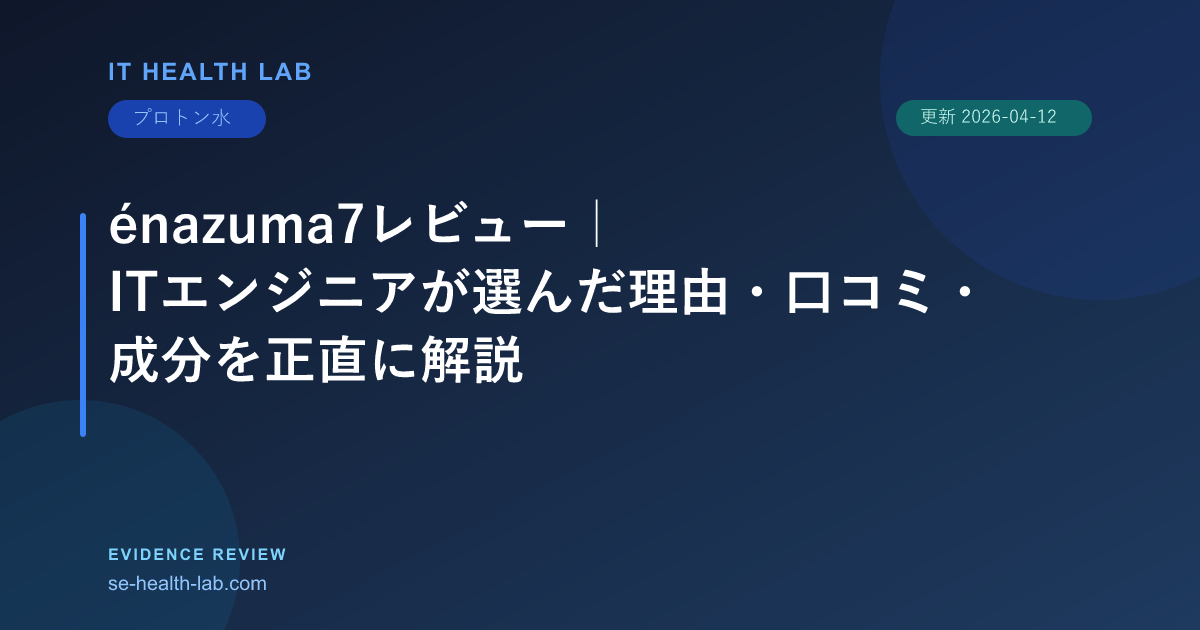
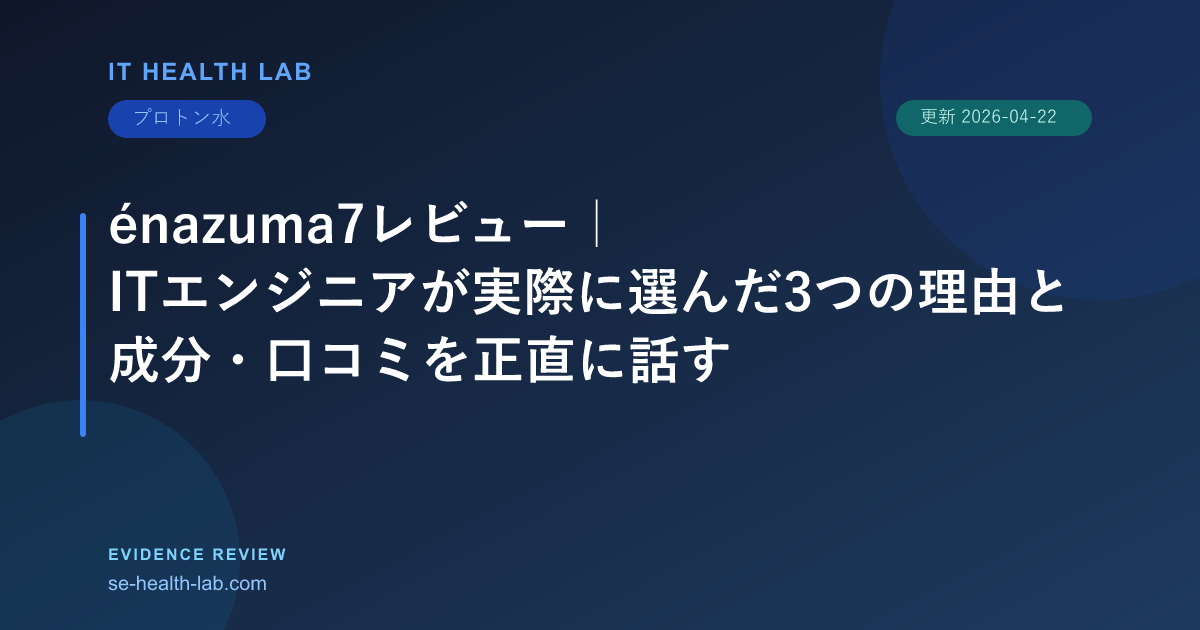
modified:   content/posts/enazuma7-review.md

Changed region(s): [[0.185, 0.4222, 0.8942, 0.6032]]

diff --git a/content/posts/mulberry-leaf-extract-analysis.md b/content/posts/mulberry-leaf-extract-analysis.md
@@ -1,6 +1,6 @@
 ---
-title: "桑の葉エキスのDNJとは？ 成分・仕組み・選び方をデータで解説"
-description: "桑の葉エキスの注目成分DNJ（デオキシノジリマイシン）の仕組み、食後血糖値との関係、プロトン水30時間熱水抽出という製法の特徴を整理します。"
+title: "桑の葉エキスのDNJとは？成分・仕組み・選び方をデータで整理"
+description: "桑の葉エキスの注目成分DNJ（デオキシノジリマイシン）の仕組みと食後血糖値との関係を整理。30時間熱水抽出という製法の特徴まで、データで選び方がわかります。"
 date: "2026-04-07"
 category: "サプリメント"
 slug: "mulberry-leaf-extract-analysis"
@@ -37,7 +37,7 @@ references:
 
 検索ユーザーが知りたいのは、「DNJとは何か」「どんな仕組みで注目されているのか」「製品ごとの差は何か」だと思います。そこで本記事では、まずDNJの働きの前提を整理し、そのうえで製品スペックと製法を見ます。
 
-ITエンジニアの食生活は糖質に偏りやすく、食後の眠気や集中力低下をパフォーマンス課題として感じやすい。そうした文脈で「食後血糖値の上昇を穏やかにする」方向の素材を調べる中で、桑の葉エキスのDNJという成分に行き当たりました。
+ITエンジニアの食生活は糖質に偏りやすく、食後の眠気や集中力低下をパフォーマンス課題として感じやすい。そうした文脈で「食後の血糖値変動」に関連する研究が進む素材を調べる中で、桑の葉エキスのDNJという成分に行き当たりました。
 
 ---
 
@@ -128,18 +128,18 @@ DNJ（1-デオキシノジリマイシン）は、桑の葉に特徴的に含ま
 | 不規則な食事時間 | 障害対応で食事スキップ → ドカ食い |
 | ストレスによる過食 | デプロイ後のジャンクフード |
 
-これらの要因が重なると、食後血糖値の急激な上昇（スパイク）が発生しやすくなります。その後の急降下が午後の眠気・集中力低下を引き起こすメカニズムは、多くの研究で示されています。
+これらの要因が重なると、食後の血糖値変動が気になりやすくなります。その後の変動と午後の眠気・集中力低下との関連については、複数の研究で議論されています（個人差があります）。
 
 ### 摂取タイミングの提案
 
-DNJのα-グルコシダーゼ阻害作用を活かすなら、**食前の摂取**がポイントです。
+DNJのα-グルコシダーゼ阻害の仕組みを踏まえると、**食事とのタイミングを意識する人が多い**です。一般的な摂取例として以下のようなパターンが見られます。
 
-| タイミング | 粒数 | 理由 |
+| タイミング例 | 粒数 | 考え方 |
 |---|---|---|
-| 昼食前 | 3粒 | 糖質の多い昼食前が最重要 |
-| 夕食前 | 3粒 | 夜の糖質吸収を穏やかに |
+| 昼食前 | 3粒 | 糖質の多い食事前に合わせる人が多い |
+| 夕食前 | 3粒 | 夕食の糖質摂取と組み合わせて確認したい |
 
-食前に摂取することで、小腸でのα-グルコシダーゼ阻害が食事由来の糖質に先回りできます。食後では酵素がすでに働き始めているため、タイミングが重要です。
+※具体的な摂取方法・タイミングは製品の用法・用量に従ってください。
 
 ---
 
@@ -161,11 +161,19 @@ DNJのα-グルコシダーゼ阻害作用を活かすなら、**食前の摂取
 | DNJの科学的根拠 | ○ α-グルコシダーゼ阻害は基礎研究での報告が複数あり |
 | 製法の独自性 | ◎ プロトン水30時間熱水抽出 |
 | 赤松葉エキスとの相乗設計 | ○ 複合的なアプローチ |
-| コストパフォーマンス | ○ 1日約¥433（健康投資として妥当な範囲） |
+| コストパフォーマンス | ○ 1日約¥433（継続コストとして確認したい価格帯） |
 
 食後の眠気やパフォーマンス低下に心当たりがあるなら、まずは自分の食生活をコードレビューしてみること。その上で、糖質コントロールの選択肢の一つとして桑の葉エキスを調べてみるのも良いかもしれません。ただし、本製品は特定保健用食品・機能性表示食品ではなく、効果を保証するものではありません。
 
-**食後の集中力低下が気になるITエンジニアへ。桑の葉エキスを検討するなら、DNJ含有・プロトン水30時間抽出・1日約¥433という条件が揃ったこの製品を最初の比較対象にしてください。** 成分設計のデータが出揃っているため、他製品と並べて検討しやすいです。
+**食後の血糖値変動が気になるITエンジニアへ。桑の葉エキスを検討するなら、DNJ含有・プロトン水30時間抽出・1日約¥433という特徴が公開されているこの製品を比較対象の一つにしてください。** 成分設計のデータが確認できるため、他製品と並べて検討しやすいです。
+
+<div class="related-posts">
+<p><strong>関連記事</strong></p>
+<ul>
+<li><a href="/posts/pine-needle-extract-analysis">松葉エキスとは？カプセルと原液の違い・成分・選び方をデータで整理</a></li>
+<li><a href="/posts/proton-x-enzyme-analysis">プロトンXとは？腸活サプリとしての成分・価格・特徴を整理</a></li>
+</ul>
+</div>
 
 <div class="cta-box">
 <p>桑の葉エキスのDNJ成分に興味が出た方は、公式サイトで製品の詳細をご確認ください。プロトン水30時間熱水抽出の独自製法で作られています。</p>

diff --git a/content/posts/proton-x-enzyme-analysis.md b/content/posts/proton-x-enzyme-analysis.md
@@ -1,6 +1,6 @@
 ---
-title: "プロトンXとは？ 成分・価格・腸活サプリとしての特徴を解説"
-description: "プロトンX（カプセル酵素）の主成分である発酵食物繊維、1日3粒の摂取設計、価格、腸内環境へのアプローチをデータベース的に整理します。"
+title: "プロトンXとは？腸活サプリとしての成分・価格・特徴を整理"
+description: "プロトンX（カプセル酵素）の主成分発酵食物繊維・1日3粒の摂取設計・価格・腸内環境へのアプローチをデータで整理。腸活サプリを選ぶ前に確認すべき項目がわかります。"
 date: "2026-04-08"
 category: "サプリメント"
 slug: "proton-x-enzyme-analysis"
@@ -197,6 +197,14 @@ ITエンジニアの生活は、不規則な食事、座位時間の長さ、ス
 腸内環境の改善は、レガシーコードのリファクタリングと同じで、一朝一夕には完了しません。しかし、小さな改善を積み重ねることで、システム全体のパフォーマンスが向上する——そのインフラ投資の選択肢の一つとして、プロトンXのような発酵食物繊維サプリを調べてみるのも良いかもしれません。ただし、本製品は機能性表示食品ではなく、効果を保証するものではない点にご留意ください。
 
 **腸活サプリを選ぶなら、「何が入っているか・1日いくらか・主成分は何か」が明確なプロトンXを最初の選択肢として見てください。** 発酵食物繊維というデータで語れる主成分と1日約¥600という計算しやすいコストが揃っています。まず公式サイトで在庫状況を確認してください（執筆時点で在庫切れの場合あり）。
+
+<div class="related-posts">
+<p><strong>関連記事</strong></p>
+<ul>
+<li><a href="/posts/mulberry-leaf-extract-analysis">桑の葉エキスのDNJとは？成分・仕組み・選び方をデータで整理</a></li>
+<li><a href="/posts/pine-needle-extract-analysis">松葉エキスとは？カプセルと原液の違い・成分・選び方をデータで整理</a></li>
+</ul>
+</div>
 
 <div class="cta-box">
 <p>プロトンXの在庫状況や詳細な製品情報は、公式サイトでご確認ください。énazuma7やその他のサプリメントも同じストアでお求めいただけます。</p>

diff --git a/content/posts/kickboxer-hydration.md b/content/posts/kickboxer-hydration.md
@@ -1,6 +1,6 @@
 ---
-title: "格闘技選手の水分補給を解説｜計量後リカバリーと水の選び方"
-description: "格闘技特有の計量、脱水、試合前リカバリーの流れを整理し、シリカ72mg/L・バナジウム含有水を含めて水分補給の考え方を解説します。"
+title: "格闘技選手の水分補給｜計量後リカバリーと水の選び方をデータで整理"
+description: "格闘技特有の計量・脱水・試合前リカバリーの流れをデータで整理。シリカ72mg/L・バナジウム含有水の選び方と、エンジニアが使える水分補給の考え方をまとめました。"
 date: "2026-04-04"
 category: "プロトン水"
 slug: "kickboxer-hydration"
@@ -170,6 +170,15 @@ references:
 格闘技選手にとって「水を選ぶ」という行為は、栄養戦略の一環として検討できるテーマだ。エンジニアが技術選定でスペックシートを比較するように、飲料水も成分データを比較して選ぶという考え方は、水分補給の質を見直すきっかけになるだろう。ただし、水の選択だけで競技パフォーマンスが向上するわけではなく、トレーニング・栄養・休養の総合管理が前提となる。
 
 **このチェックリストを最も多く満たす水として、私がまず確認を勧めるのがénazuma7です。** シリカ72mg/L・バナジウム4.7μg/L・pH7.3・軟水・成分全公開・採水地明示——格闘技選手の水選びで迷ったら、まずここを基準に比較してみてください。
+
+<div class="related-posts">
+<p><strong>関連記事</strong></p>
+<ul>
+<li><a href="/posts/how-to-drink-proton-water">プロトン水の飲み方｜朝・仕事中・運動後のタイミング別に量と続け方を整理</a></li>
+<li><a href="/posts/marathon-runner-hydration">マラソンの水分補給｜脱水・電解質・水の選び方を基本から整理</a></li>
+<li><a href="/posts/enazuma7-review">énazuma7レビュー｜ITエンジニアが実際に選んだ3つの理由と成分・口コミ</a></li>
+</ul>
+</div>
 
 <div class="cta-box">
 <p>énazuma7のシリカ72mg/L・バナジウム含有・pH7.3といった成分スペックに関心を持った方は、公式サイトで詳細を確認してみてください。</p>

diff --git a/content/posts/what-is-proton-water.md b/content/posts/what-is-proton-water.md
@@ -1,6 +1,6 @@
 ---
-title: "プロトン水とは？ 水素水との違い・成分・選び方をデータで解説"
-description: "プロトン水と水素水の違いを、化学的な仕組みと成分データで整理。énazuma7のシリカ72mg/L・pH7.3・バナジウム4.7μg/Lをもとに比較ポイントを解説します。"
+title: "プロトン水とは？水素水との違い・成分をITエンジニアがデータで比較"
+description: "プロトン水と水素水の違いを化学的な仕組みと成分データで整理。シリカ72mg/L・pH7.3・バナジウム4.7μg/Lを数値で比較し、どちらを選ぶか判断できる記事です。"
 date: "2026-04-02"
 category: "プロトン水"
 slug: "what-is-proton-water"
@@ -188,6 +188,15 @@ references:
 感情ではなくスペックで比較する。それがエンジニア的な消費行動だと思っています。なお、成分数値はあくまで製品の特徴を示すものであり、特定の健康効果を保証するものではありません。
 
 **プロトン水を探しているなら、まずénazuma7から比較を始めてください。** pH・シリカ・バナジウムがすべて数値で公開されているため、他製品との横並び比較がデータでできます。「どれを選べばいいか分からない」という状態から最短で抜け出せる選択肢です。
+
+<div class="related-posts">
+<p><strong>関連記事</strong></p>
+<ul>
+<li><a href="/posts/how-to-choose-proton-water">プロトン水の選び方｜成分・pH・価格で比較する3つのポイント</a></li>
+<li><a href="/posts/silica-water-vs-proton-water">シリカ水vsプロトン水｜どちらを選ぶか成分・価格・目的で比較した</a></li>
+<li><a href="/posts/enazuma7-review">énazuma7レビュー｜ITエンジニアが実際に選んだ3つの理由と成分・口コミ</a></li>
+</ul>
+</div>
 
 <div class="cta-box">
 <p>プロトン水に興味が出た方は、まず公式サイトで詳細な成分情報を確認することをおすすめします。</p>

diff --git a/content/posts/pine-needle-extract-analysis.md b/content/posts/pine-needle-extract-analysis.md
@@ -1,6 +1,6 @@
 ---
-title: "松葉エキスとは？ 成分・効果の考え方・カプセルと原液の違いを解説"
-description: "松葉エキスの主要成分であるクロロフィル、テルペン類、ビタミン類を整理し、カプセルと原液の違い、選び方のポイントをデータで解説します。"
+title: "松葉エキスとは？カプセルと原液の違い・成分・選び方をデータで整理"
+description: "松葉エキスの主要成分クロロフィル・テルペン類・ビタミン類を整理し、カプセルと原液で何が違うのかをデータで比較。あなたに合った選び方がわかります。"
 date: "2026-04-06"
 category: "サプリメント"
 slug: "pine-needle-extract-analysis"
@@ -175,6 +175,14 @@ ITエンジニアの生活パターンに合わせた摂取タイミングを考
 | 水素系・抗酸化系で確立されたものが欲しい | → énazuma7（プロトン水）の方が適合する |
 
 「基礎研究では有望だが、ヒト臨床は発展途上」——この段階の素材に対して、リスクを抑えながら試すならカプセルが合理的な入口です。一方で、より成分の透明性と実績を重視するなら、プロトン水系製品と組み合わせる、または最初はénazuma7から入る選択も理にかなっています。
+
+<div class="related-posts">
+<p><strong>関連記事</strong></p>
+<ul>
+<li><a href="/posts/mulberry-leaf-extract-analysis">桑の葉エキスのDNJとは？成分・仕組み・選び方をデータで整理</a></li>
+<li><a href="/posts/proton-x-enzyme-analysis">プロトンXとは？腸活サプリとしての成分・価格・特徴を整理</a></li>
+</ul>
+</div>
 
 <div class="cta-box">
 <p>松葉エキスの成分データを確認した上で試してみたい方は、公式サイトで詳細をご覧ください。カプセル・原液の両方がラインナップされています。</p>

diff --git a/content/posts/how-to-choose-proton-water.md b/content/posts/how-to-choose-proton-water.md
@@ -1,6 +1,6 @@
 ---
-title: "プロトン水の選び方｜成分・pH・価格の比較ポイントを解説"
-description: "プロトン水を選ぶときに見るべきポイントを、成分・pH・価格・続けやすさの観点で整理。シリカ72mg/L・pH7.3などの数値をもとに比較軸を解説します。"
+title: "プロトン水の選び方｜成分・pH・価格で比較する3つのポイント"
+description: "プロトン水を選ぶときに見るべき3つの比較ポイントを成分・pH・価格・続けやすさの観点で整理。シリカ72mg/L・pH7.3などの数値で迷わず選べるようになります。"
 date: "2026-04-09"
 category: "プロトン水"
 slug: "how-to-choose-proton-water"
@@ -128,6 +128,15 @@ pHは水の性質をざっくり把握するための基礎データです。強
 ## まとめ
 
 プロトン水の選び方を一言でまとめると、**名称や雰囲気ではなく、比較しやすい数字があるかで選ぶ**ということです。そして数字が揃っている選択肢の中で、デスクワーク中の継続利用を前提にするなら énazuma7 が現時点での推薦です。
+
+<div class="related-posts">
+<p><strong>関連記事</strong></p>
+<ul>
+<li><a href="/posts/what-is-proton-water">プロトン水とは？水素水との違い・成分をITエンジニアがデータで比較</a></li>
+<li><a href="/posts/how-to-drink-proton-water">プロトン水の飲み方｜朝・仕事中・運動後のタイミング別に量と続け方を整理</a></li>
+<li><a href="/posts/enazuma7-review">énazuma7レビュー｜ITエンジニアが実際に選んだ3つの理由と成分・口コミ</a></li>
+</ul>
+</div>
 
 <div class="cta-box">
 <p>pH・シリカ・バナジウムの3項目を自分で確認してから選びたい方に、énazuma7 は向いています。</p>

diff --git a/content/posts/enazuma7-review.md b/content/posts/enazuma7-review.md
@@ -1,6 +1,6 @@
 ---
-title: "énazuma7レビュー｜ITエンジニアが選んだ理由・口コミ・成分を正直に解説"
-description: "énazuma7（enazuma7／イナズマ7）をITエンジニア目線でレビュー。シリカ72mg/L・1本約370円のコスト・私が選んだ3つの理由を正直に解説します。"
+title: "énazuma7レビュー｜ITエンジニアが実際に選んだ3つの理由と成分・口コミを正直に話す"
+description: "énazuma7（enazuma7／イナズマ7）をITエンジニアが実際に選んだ理由を3つ正直に話します。シリカ72mg/L・バナジウム4.7μg/L・1本約370円のコストをデータで検証。"
 date: "2026-04-10"
 category: "プロトン水"
 slug: "enazuma7-review"
@@ -307,6 +307,15 @@ references:
 - **解約や停止はいつでもできるか** — 縛り期間・違約金・停止期限の有無は公式ストアで確認
 - **1回だけ（通常購入）も可能か** — 単品購入の可否を公式ストアで確認
 - **味にクセはあるか** — 口当たりの感想は個人差があるため、公式ストアのレビューを参照
+
+<div class="related-posts">
+<p><strong>関連記事</strong></p>
+<ul>
+<li><a href="/posts/what-is-proton-water">プロトン水とは？水素水との違い・成分をITエンジニアがデータで比較</a></li>
+<li><a href="/posts/silica-water-vs-proton-water">シリカ水vsプロトン水｜どちらを選ぶか成分・価格・目的で比較した</a></li>
+<li><a href="/posts/how-to-choose-proton-water">プロトン水の選び方｜成分・pH・価格で比較する3つのポイント</a></li>
+</ul>
+</div>
 
 <div class="cta-box">
 <p>成分・価格・購入条件の最新情報は公式ストアで確認できます。</p>

diff --git a/content/posts/silica-water-vs-proton-water.md b/content/posts/silica-water-vs-proton-water.md
@@ -1,6 +1,6 @@
 ---
-title: "シリカ水とプロトン水の違い｜成分・選び方・向いている人を解説"
-description: "シリカ水とプロトン水の違いを、主成分、比較ポイント、選び方の観点で整理。シリカ量、pH、ミネラル設計の違いをデータで解説します。"
+title: "シリカ水vsプロトン水｜どちらを選ぶか成分・価格・目的で比較した"
+description: "シリカ水とプロトン水の違いを主成分・pH・ミネラル設計のデータで比較。あなたの目的（シリカ重視 or 複合ミネラル）に合わせてどちらを選ぶか判断できます。"
 date: "2026-04-10"
 category: "プロトン水"
 slug: "silica-water-vs-proton-water"
@@ -123,6 +123,15 @@ references:
 | すでに使っているシリカ水がある | 現状継続 or 成分比較して切り替えを検討 |
 
 水選びに迷ったときは、公開されている成分情報の量を確認する。それだけでも判断の解像度がかなり上がります。
+
+<div class="related-posts">
+<p><strong>関連記事</strong></p>
+<ul>
+<li><a href="/posts/what-is-proton-water">プロトン水とは？水素水との違い・成分をITエンジニアがデータで比較</a></li>
+<li><a href="/posts/how-to-choose-proton-water">プロトン水の選び方｜成分・pH・価格で比較する3つのポイント</a></li>
+<li><a href="/posts/enazuma7-review">énazuma7レビュー｜ITエンジニアが実際に選んだ3つの理由と成分・口コミ</a></li>
+</ul>
+</div>
 
 <div class="cta-box">
 <p>énazuma7 はシリカ・pH・バナジウムの3項目が公開されており、「自分で確認して選びたい」方に向いています。</p>

diff --git a/content/posts/pe-spray-vs-cream.md b/content/posts/pe-spray-vs-cream.md
@@ -1,6 +1,6 @@
 ---
-title: "P.e-スプレーとP.e-クリームの違いを比較｜顔・背中・使い分けで選ぶ"
-description: "P.e-スプレーとP.e-クリームの違いを比較。顔への使用可否・背中への使いやすさ・使い分け方をエンジニア視点で整理。どちらを選ぶかは「ケアしたい部位」で決まります。"
+title: "P.e-スプレーvsP.e-クリーム｜顔・背中への使い分けと違いを比較"
+description: "P.e-スプレーとP.e-クリームの違いを顔への使用可否・背中への使いやすさで比較。どちらを選ぶかはケアしたい部位で決まります。成分の違いもエンジニア視点で整理。"
 date: "2026-04-13"
 category: "PE製品"
 slug: "pe-spray-vs-cream"
@@ -248,6 +248,13 @@ P.e-スプレーとP.e-クリームは、同じ医薬部外品という枠組み
 迷う場合は公式サイトで各製品の用法・用量・使用部位を確認した上で選択することをおすすめする。
 
 <p class="affiliate-notice">※本記事にはアフィリエイト広告（販売提携）が含まれます。</p>
+
+<div class="related-posts">
+<p><strong>関連記事</strong></p>
+<ul>
+<li><a href="/posts/pe-cream-ingredients">薬用P.e-クリームの成分解析｜グリチルリチン酸・ナイアシンアミドと医薬部外品の見方</a></li>
+</ul>
+</div>
 
 <div class="cta-box">
 <p>P.e-クリーム・P.e-スプレー両製品の成分・用法・用量・価格は公式ストアでご確認ください。剤形の選択に迷った場合も、公式の用法・用量を確認した上で判断することをおすすめします。</p>

diff --git a/content/posts/how-to-drink-proton-water.md b/content/posts/how-to-drink-proton-water.md
@@ -1,6 +1,6 @@
 ---
-title: "プロトン水の飲み方｜タイミング・量・続け方の考え方を解説"
-description: "プロトン水の飲み方を、朝・仕事中・運動時・食事中のタイミング別に整理。どのくらい飲むか、続けるときの考え方をデータ志向で解説します。"
+title: "プロトン水の飲み方｜朝・仕事中・運動後のタイミング別に量と続け方を整理"
+description: "プロトン水の飲み方を朝・仕事中・運動時・食事中のタイミング別に整理。1日どのくらい飲むか、無理なく続けるための考え方をデータ志向でまとめました。"
 date: "2026-04-11"
 category: "プロトン水"
 slug: "how-to-drink-proton-water"
@@ -122,6 +122,14 @@ references:
 | 日常への組み込みやすさ | 特別な器具不要、そのまま飲める |
 
 「まず試してみる1本」として選びやすい設計になっており、プロトン水を初めて日常に取り入れるなら現実解と判断しています。
+
+<div class="related-posts">
+<p><strong>関連記事</strong></p>
+<ul>
+<li><a href="/posts/how-to-choose-proton-water">プロトン水の選び方｜成分・pH・価格で比較する3つのポイント</a></li>
+<li><a href="/posts/enazuma7-review">énazuma7レビュー｜ITエンジニアが実際に選んだ3つの理由と成分・口コミ</a></li>
+</ul>
+</div>
 
 <div class="cta-box">
 <p>成分データ・価格・定期購入の詳細は公式サイトで確認できます。飲み方を決めたタイミングで、一度見ておくと判断しやすくなります。</p>
